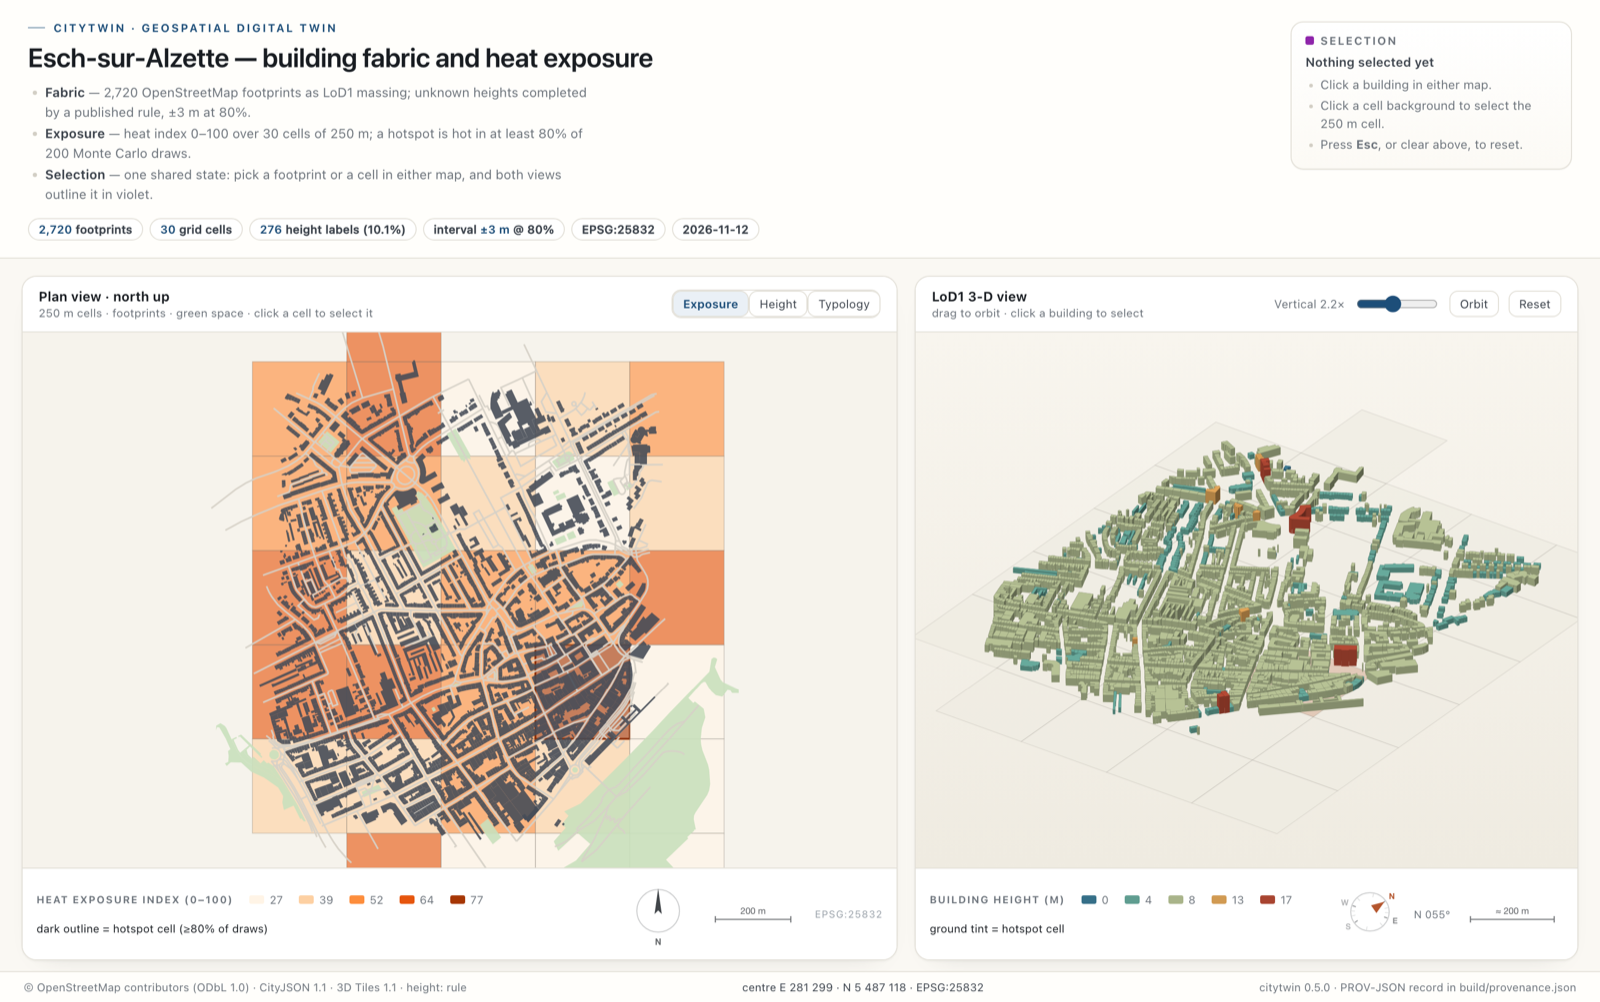
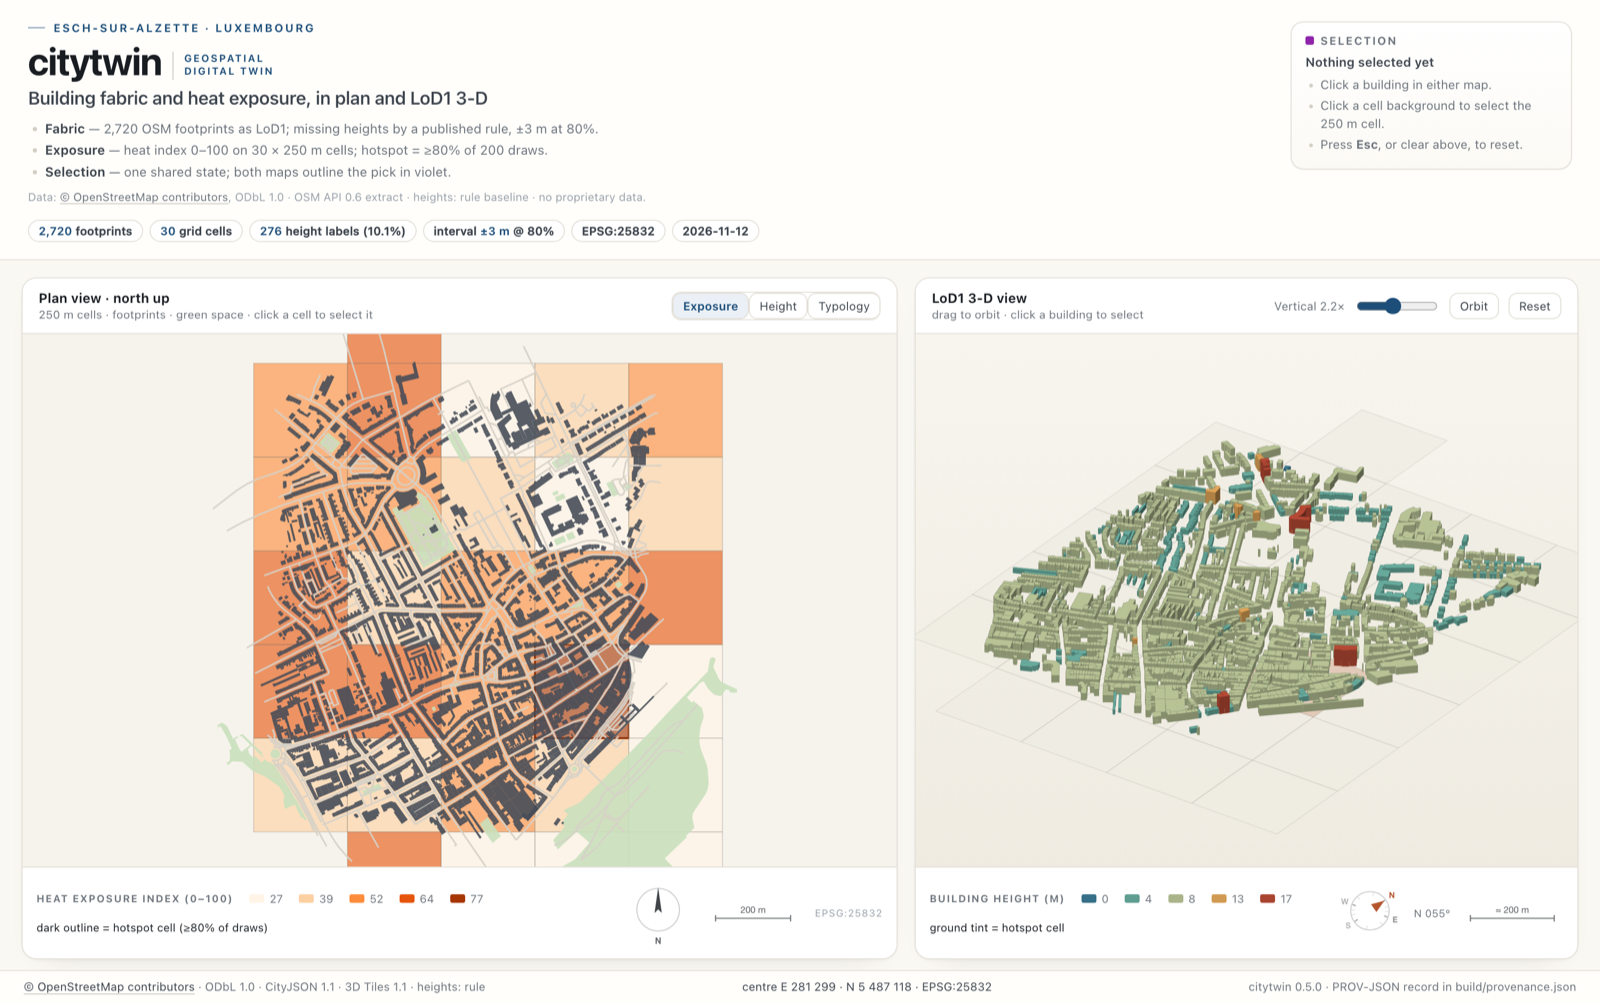
Brand the viewer as citytwin, cite OSM, and surface the demo
- the wordmark 'citytwin' now leads the page with a 'geospatial digital twin' tag, so
  the project type is legible before any prose
- data provenance is stated in the header and the footer links to the OSM copyright
  page (an anchor, not a fetch: the viewer still makes zero external requests)
- README opens with a prominent demo link and badge, states the OSM/ODbL source, and
  adds a three-figure gallery (typology, height, selection) rendered by figures.sh
- GitHub Pages workflow publishes web/index.html on push to main

diff --git a/web/index.html b/web/index.html
@@ -3,7 +3,7 @@
 <head>
 <meta charset="utf-8">
 <meta name="viewport" content="width=device-width, initial-scale=1">
-<title>citytwin — Esch-sur-Alzette digital twin</title>
+<title>citytwin — geospatial digital twin of Esch-sur-Alzette</title>
 <style>
   :root{
     --ink:#191d22; --ink-soft:#3c434c; --muted:#6c737b; --faint:#98a0a8;
@@ -24,12 +24,22 @@
   .kicker{font-size:10.5px;letter-spacing:.16em;text-transform:uppercase;color:var(--accent);
     font-weight:650;margin:0 0 7px;display:flex;align-items:center;gap:8px}
   .kicker::before{content:"";width:16px;height:1px;background:var(--accent);opacity:.6}
-  h1{margin:0;font-size:25px;font-weight:620;letter-spacing:-.015em;line-height:1.18}
+  .brandline{display:flex;align-items:flex-end;gap:10px;margin:1px 0 0}
+  .brand{font-size:36px;font-weight:700;letter-spacing:-.03em;line-height:1;
+    color:var(--ink)}
+  .brand-tag{font-size:9.5px;letter-spacing:.14em;text-transform:uppercase;
+    color:var(--accent);font-weight:650;line-height:1.3;padding:0 0 2px 10px;
+    border-left:1px solid var(--line-strong);white-space:nowrap}
+  h1{margin:6px 0 0;font-size:17px;font-weight:560;letter-spacing:-.005em;
+    line-height:1.25;color:var(--ink-soft)}
   .lede{margin:9px 0 0;padding:0 0 0 16px;max-width:70ch;color:var(--muted);
     font-size:12.2px;line-height:1.5}
   .lede li{margin:2px 0}
   .lede li::marker{color:var(--line-strong)}
   .lede b{color:var(--ink-soft);font-weight:640}
+  .source{margin:7px 0 0;font-size:10.6px;line-height:1.5;color:var(--faint)}
+  .source a{color:var(--muted);text-decoration:none;border-bottom:1px solid var(--line-strong)}
+  .source a:hover{color:var(--ink-soft)}
   .chips{display:flex;gap:6px;flex-wrap:wrap;margin-top:13px}
   .chip{background:#fff;color:var(--ink-soft);border:1px solid var(--line);
     border-radius:999px;padding:3px 9px;font-size:10.8px;font-weight:520;letter-spacing:.01em}
@@ -109,9 +119,11 @@
   .foot-crs{font-size:9.4px;letter-spacing:.06em;color:var(--faint);white-space:nowrap}
   #bearing{font-size:10px;color:var(--muted);font-variant-numeric:tabular-nums;white-space:nowrap}
 
-  footer{border-top:1px solid var(--line);padding:8px 22px;color:var(--muted);font-size:10.4px;
+  footer{border-top:1px solid var(--line);padding:8px 22px;color:var(--muted);font-size:10.8px;
     display:flex;justify-content:space-between;gap:18px;flex-wrap:wrap;background:var(--panel)}
   footer span{white-space:nowrap}
+  footer a{color:var(--ink-soft);text-decoration:none;border-bottom:1px solid var(--line-strong)}
+  footer a:hover{color:var(--ink)}
   #coords{font-variant-numeric:tabular-nums;color:var(--ink-soft)}
 
   .tip{position:fixed;pointer-events:none;background:#14181d;color:#fff;font-size:10.8px;
@@ -130,13 +142,18 @@
 <body>
 <header>
   <div class="masthead">
-    <p class="kicker">citytwin · geospatial digital twin</p>
-    <h1>Esch-sur-Alzette — building fabric and heat exposure</h1>
+    <p class="kicker">Esch-sur-Alzette · Luxembourg</p>
+    <div class="brandline">
+      <span class="brand">citytwin</span>
+      <span class="brand-tag">geospatial<br>digital twin</span>
+    </div>
+    <h1>Building fabric and heat exposure, in plan and LoD1 3-D</h1>
     <ul class="lede">
-      <li><b>Fabric</b> — 2,720 OpenStreetMap footprints as LoD1 massing; unknown heights completed by a published rule, ±3 m at 80%.</li>
-      <li><b>Exposure</b> — heat index 0–100 over 30 cells of 250 m; a hotspot is hot in at least 80% of 200 Monte Carlo draws.</li>
-      <li><b>Selection</b> — one shared state: pick a footprint or a cell in either map, and both views outline it in violet.</li>
+      <li><b>Fabric</b> — 2,720 OSM footprints as LoD1; missing heights by a published rule, ±3 m at 80%.</li>
+      <li><b>Exposure</b> — heat index 0–100 on 30 × 250 m cells; hotspot = ≥80% of 200 draws.</li>
+      <li><b>Selection</b> — one shared state; both maps outline the pick in violet.</li>
     </ul>
+    <p class="source">Data: <a href="https://www.openstreetmap.org/copyright" target="_blank" rel="noopener">© OpenStreetMap contributors</a>, ODbL 1.0 · OSM API 0.6 extract · heights: rule baseline · no proprietary data.</p>
     <div class="chips" id="chips"></div>
   </div>
   <aside class="inspector" id="inspector">
@@ -940,8 +957,9 @@
     DATA.meta.crs_metric,
     DATA.meta.generated
   ].map(t=>'<span class="chip">'+t+'</span>').join('');
-  document.getElementById('foot-left').textContent =
-    '© OpenStreetMap contributors (ODbL 1.0) · CityJSON 1.1 · 3D Tiles 1.1 · height: '+DATA.meta.strategy;
+  document.getElementById('foot-left').innerHTML =
+    '<a href="https://www.openstreetmap.org/copyright" target="_blank" rel="noopener">© OpenStreetMap contributors</a>' +
+    ' · ODbL 1.0 · CityJSON 1.1 · 3D Tiles 1.1 · heights: '+DATA.meta.strategy;
   document.getElementById('foot-right').textContent =
     'citytwin 0.5.0 · ' + (DATA.meta.provenance
       ? 'provenance ' + DATA.meta.provenance.slice(0,16) + '…'

diff --git a/web/template.html b/web/template.html
@@ -3,7 +3,7 @@
 <head>
 <meta charset="utf-8">
 <meta name="viewport" content="width=device-width, initial-scale=1">
-<title>citytwin — Esch-sur-Alzette digital twin</title>
+<title>citytwin — geospatial digital twin of Esch-sur-Alzette</title>
 <style>
   :root{
     --ink:#191d22; --ink-soft:#3c434c; --muted:#6c737b; --faint:#98a0a8;
@@ -24,12 +24,22 @@
   .kicker{font-size:10.5px;letter-spacing:.16em;text-transform:uppercase;color:var(--accent);
     font-weight:650;margin:0 0 7px;display:flex;align-items:center;gap:8px}
   .kicker::before{content:"";width:16px;height:1px;background:var(--accent);opacity:.6}
-  h1{margin:0;font-size:25px;font-weight:620;letter-spacing:-.015em;line-height:1.18}
+  .brandline{display:flex;align-items:flex-end;gap:10px;margin:1px 0 0}
+  .brand{font-size:36px;font-weight:700;letter-spacing:-.03em;line-height:1;
+    color:var(--ink)}
+  .brand-tag{font-size:9.5px;letter-spacing:.14em;text-transform:uppercase;
+    color:var(--accent);font-weight:650;line-height:1.3;padding:0 0 2px 10px;
+    border-left:1px solid var(--line-strong);white-space:nowrap}
+  h1{margin:6px 0 0;font-size:17px;font-weight:560;letter-spacing:-.005em;
+    line-height:1.25;color:var(--ink-soft)}
   .lede{margin:9px 0 0;padding:0 0 0 16px;max-width:70ch;color:var(--muted);
     font-size:12.2px;line-height:1.5}
   .lede li{margin:2px 0}
   .lede li::marker{color:var(--line-strong)}
   .lede b{color:var(--ink-soft);font-weight:640}
+  .source{margin:7px 0 0;font-size:10.6px;line-height:1.5;color:var(--faint)}
+  .source a{color:var(--muted);text-decoration:none;border-bottom:1px solid var(--line-strong)}
+  .source a:hover{color:var(--ink-soft)}
   .chips{display:flex;gap:6px;flex-wrap:wrap;margin-top:13px}
   .chip{background:#fff;color:var(--ink-soft);border:1px solid var(--line);
     border-radius:999px;padding:3px 9px;font-size:10.8px;font-weight:520;letter-spacing:.01em}
@@ -109,9 +119,11 @@
   .foot-crs{font-size:9.4px;letter-spacing:.06em;color:var(--faint);white-space:nowrap}
   #bearing{font-size:10px;color:var(--muted);font-variant-numeric:tabular-nums;white-space:nowrap}
 
-  footer{border-top:1px solid var(--line);padding:8px 22px;color:var(--muted);font-size:10.4px;
+  footer{border-top:1px solid var(--line);padding:8px 22px;color:var(--muted);font-size:10.8px;
     display:flex;justify-content:space-between;gap:18px;flex-wrap:wrap;background:var(--panel)}
   footer span{white-space:nowrap}
+  footer a{color:var(--ink-soft);text-decoration:none;border-bottom:1px solid var(--line-strong)}
+  footer a:hover{color:var(--ink)}
   #coords{font-variant-numeric:tabular-nums;color:var(--ink-soft)}
 
   .tip{position:fixed;pointer-events:none;background:#14181d;color:#fff;font-size:10.8px;
@@ -130,13 +142,18 @@
 <body>
 <header>
   <div class="masthead">
-    <p class="kicker">citytwin · geospatial digital twin</p>
-    <h1>Esch-sur-Alzette — building fabric and heat exposure</h1>
+    <p class="kicker">Esch-sur-Alzette · Luxembourg</p>
+    <div class="brandline">
+      <span class="brand">citytwin</span>
+      <span class="brand-tag">geospatial<br>digital twin</span>
+    </div>
+    <h1>Building fabric and heat exposure, in plan and LoD1 3-D</h1>
     <ul class="lede">
-      <li><b>Fabric</b> — 2,720 OpenStreetMap footprints as LoD1 massing; unknown heights completed by a published rule, ±3 m at 80%.</li>
-      <li><b>Exposure</b> — heat index 0–100 over 30 cells of 250 m; a hotspot is hot in at least 80% of 200 Monte Carlo draws.</li>
-      <li><b>Selection</b> — one shared state: pick a footprint or a cell in either map, and both views outline it in violet.</li>
+      <li><b>Fabric</b> — 2,720 OSM footprints as LoD1; missing heights by a published rule, ±3 m at 80%.</li>
+      <li><b>Exposure</b> — heat index 0–100 on 30 × 250 m cells; hotspot = ≥80% of 200 draws.</li>
+      <li><b>Selection</b> — one shared state; both maps outline the pick in violet.</li>
     </ul>
+    <p class="source">Data: <a href="https://www.openstreetmap.org/copyright" target="_blank" rel="noopener">© OpenStreetMap contributors</a>, ODbL 1.0 · OSM API 0.6 extract · heights: rule baseline · no proprietary data.</p>
     <div class="chips" id="chips"></div>
   </div>
   <aside class="inspector" id="inspector">
@@ -940,8 +957,9 @@
     DATA.meta.crs_metric,
     DATA.meta.generated
   ].map(t=>'<span class="chip">'+t+'</span>').join('');
-  document.getElementById('foot-left').textContent =
-    '© OpenStreetMap contributors (ODbL 1.0) · CityJSON 1.1 · 3D Tiles 1.1 · height: '+DATA.meta.strategy;
+  document.getElementById('foot-left').innerHTML =
+    '<a href="https://www.openstreetmap.org/copyright" target="_blank" rel="noopener">© OpenStreetMap contributors</a>' +
+    ' · ODbL 1.0 · CityJSON 1.1 · 3D Tiles 1.1 · heights: '+DATA.meta.strategy;
   document.getElementById('foot-right').textContent =
     'citytwin 0.5.0 · ' + (DATA.meta.provenance
       ? 'provenance ' + DATA.meta.provenance.slice(0,16) + '…'

diff --git a/tests/test_exporters.py b/tests/test_exporters.py
@@ -3,6 +3,7 @@
 from __future__ import annotations
 
 import json
+import re
 
 from citytwin.exporters import (
     buildings_to_3dtiles,
@@ -50,7 +51,11 @@ def test_viewer_is_offline(tmp_path, simple_buildings, simple_cells, simple_gree
     html = path.read_text(encoding="utf-8")
     assert "__DATA__" not in html
     assert '"buildings"' in html
-    # no external requests: no CDN, no fonts, no tiles
-    for forbidden in ("https://", "http://", "cdn.", "unpkg", "jsdelivr"):
+    # no external resources: no CDN, no fonts, no tiles. Attribution anchors are
+    # plain links — they cost nothing until a reader clicks them.
+    assert not re.search(
+        r'<(?:script|img|iframe|link)\b[^>]*(?:src|href)=["\']https?://', html
+    )
+    for forbidden in ("cdn.", "unpkg", "jsdelivr", "@import", "url(http"):
         assert forbidden not in html
     assert "Esch-sur-Alzette" in html

diff --git a/README.md b/README.md
@@ -2,6 +2,12 @@
 
 **An auditable geospatial digital twin toolkit — footprints in, standards out.**
 
+**▶ Interactive demo — [caoqyqianyi.github.io/citytwin](https://caoqyqianyi.github.io/citytwin/)**  
+[![Live demo](https://img.shields.io/badge/open%20the%203D%20twin-live%20demo-8e24aa?style=for-the-badge)](https://caoqyqianyi.github.io/citytwin/)  
+Plan and LoD1 3-D side by side, three colour modes, vertical exaggeration, linked
+selection. The viewer is also in the repository at [`web/index.html`](web/index.html)
+and runs offline.
+
 `citytwin` builds a LoD1 city model from OpenStreetMap footprints, completes missing
 building heights with a calibrated rule, propagates that uncertainty into an urban
 heat-exposure index, and publishes the result through CityJSON, 3D Tiles and an
@@ -10,6 +16,11 @@ by calling audited queries — never by inventing numbers.
 
 The study area is **Esch-sur-Alzette (Luxembourg)**, 2.5 km from the LIST Belvaux
 campus: 187.5 ha, 2 720 footprints, a 250 m analysis grid.
+
+**Data source:** © OpenStreetMap contributors, [ODbL 1.0](https://opendatacommons.org/licenses/odbl/1-0/),
+read through the OSM API 0.6 as a bounding-box extract (2026-11-12). Missing heights are
+completed by the rule baseline below, never by a proprietary dataset; there is no
+personal data in the pipeline.
 
 [![CI](https://github.com/caoqyqianyi/citytwin/actions/workflows/ci.yml/badge.svg)](https://github.com/caoqyqianyi/citytwin/actions/workflows/ci.yml)
 [![Python](https://img.shields.io/badge/python-3.11%20%7C%203.12-1f4e79)](pyproject.toml)
@@ -101,21 +112,31 @@ citytwin eval           # golden-question harness, writes docs/agent_eval.md
 `build` works offline.
 
 Open `web/index.html` directly in a browser — no server, no network, no JavaScript
-dependencies. `?mode=height` and `?mode=typology` switch the colouring, `?exag=0.8…4`
-sets the vertical exaggeration, `?sel=<id>` and `?cell=<id>` open a given selection, and
-`Esc` clears it. Both panels are drawn from one payload, so a click, a hover and a cell
+dependencies. The same folder is published to GitHub Pages by
+`.github/workflows/pages.yml` (enable Pages → Source: GitHub Actions once).
+
+`?mode=height` and `?mode=typology` switch the colouring, `?exag=0.8…4` sets the
+vertical exaggeration, `?sel=<id>` and `?cell=<id>` open a given selection, and `Esc`
+clears it. Both panels are drawn from one payload, so a click, a hover and a cell
 selection are shared: the plan stays north-up, the 3-D compass turns with the orbit and
 prints the bearing. The active footprint and cell are drawn in a violet with a
 white halo — a hue absent from every base ramp — and the 3-D view pins the chosen
 building with a leader line so it stays findable inside a dense block. Legends, the
 north arrow or compass, the scale bar and the EPSG:25832 readout sit in a strip below
-each map rather than on top of it, so the canvas is never covered. The viewer runs a small cartographic self-test at load
+each map rather than on top of it, so the canvas is never covered. The viewer runs a
+small cartographic self-test at load
 (`east → right`, `north → up`, in both projections) and exposes the result as
 `<html data-cartography="ok">`, which `make figures` asserts before taking screenshots.
 
-![The same building selected in both views](docs/assets/selection_view.png)
-*A shared selection (`?sel=36`): one click highlights the footprint in the plan and pins
-it in the 3-D view, with its 250 m cell framed in the same violet.*
+Three states of the same page — the parts a reviewer can try in thirty seconds:
+
+| Typology · three urban-form clusters | Height · 3.2× vertical, one footprint selected | Selection · one state, two views |
+|:---:|:---:|:---:|
+| [![Typology mode](docs/assets/typology_view.png)](docs/assets/typology_view.png) | [![Height mode with vertical exaggeration](docs/assets/height_view.png)](docs/assets/height_view.png) | [![Linked selection](docs/assets/selection_view.png)](docs/assets/selection_view.png) |
+
+*Typology recolours every footprint by its cluster (k = 3, ARI 0.943). Height exposes the
+completed heights and demonstrates the vertical slider. Selection (`?sel=36`) is one
+shared state: the plan, the 3-D model and the inspector all point at the same building.*
 
 ## Pipeline
 
